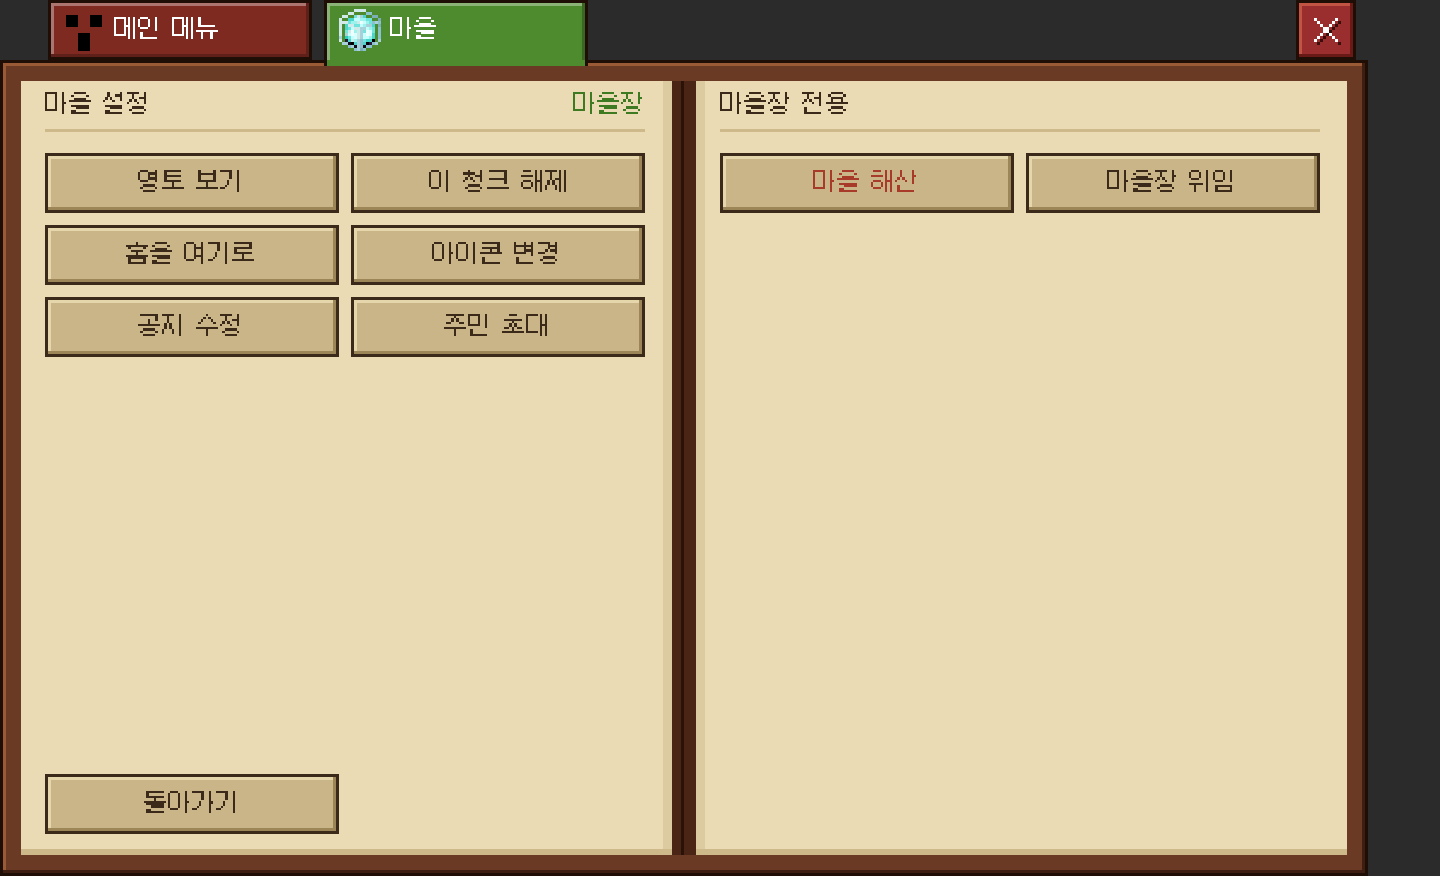
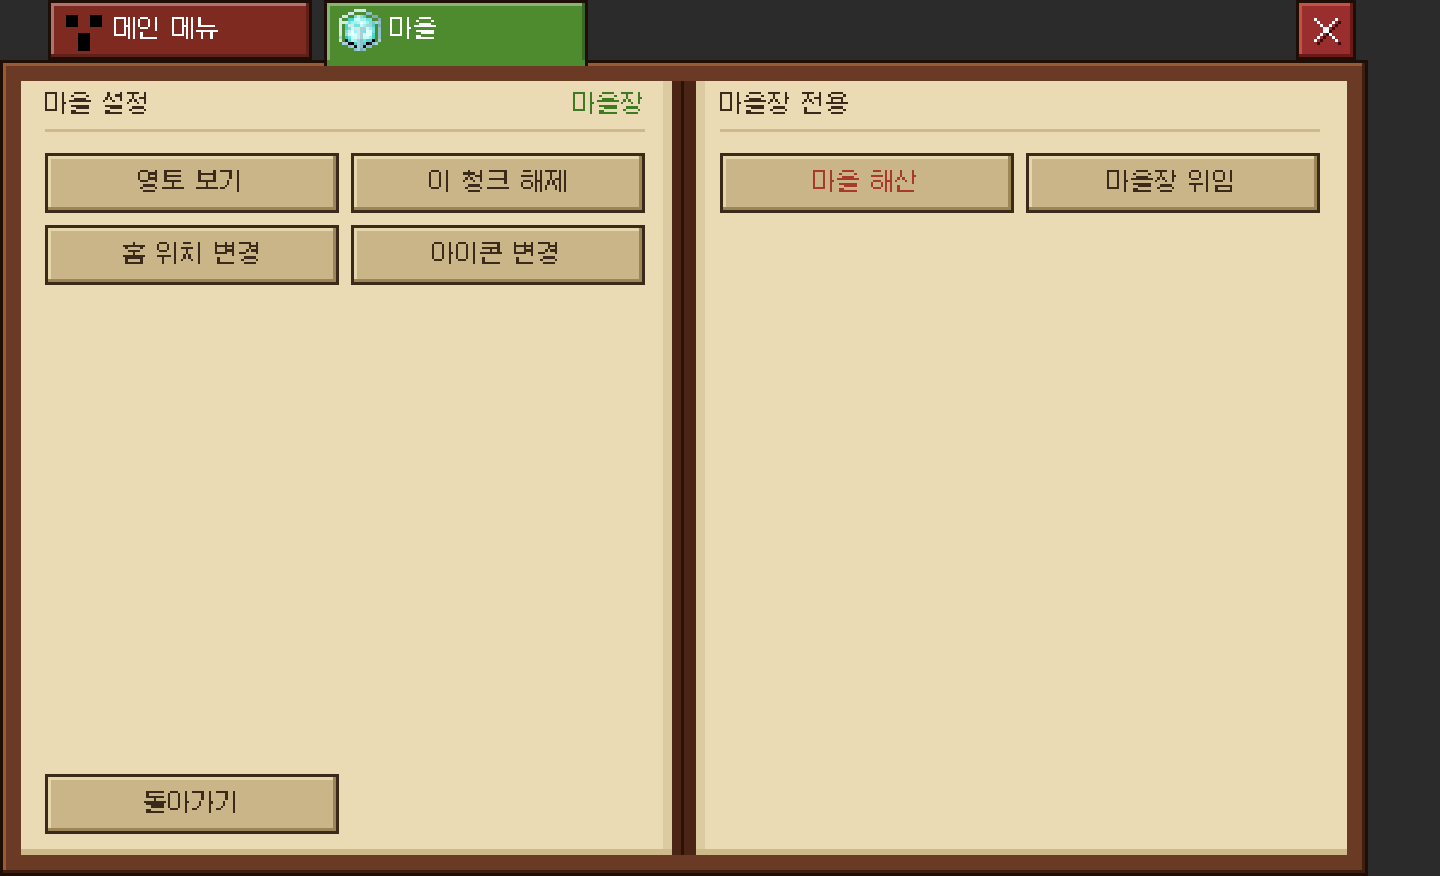
마을 설정 정리: 공지 수정·주민 초대 버튼 제거, 홈 위치 변경으로 이름 변경

Changed region(s): [[0.0312, 0.339, 0.4688, 0.4315], [0.0938, 0.2774, 0.1875, 0.3082]]

diff --git a/src/main/java/org/crebs/coreui/menu/village/VillageMenu.java b/src/main/java/org/crebs/coreui/menu/village/VillageMenu.java
@@ -560,13 +560,11 @@ public final class VillageMenu {
         if (state.asks(UNCLAIM)) c.button("paper", 98, "정말 해제", b, 51, RED, act::unclaimChunk, "지금 서 있는 청크를 영토에서 빼요 · 환불 없음");
         else c.button("paper", 98, "이 청크 해제", b, 51, INK, p -> act.go(p, State.SETTINGS.asking(UNCLAIM)),
                 "지금 서 있는 청크를 영토에서 빼요 · 환불 없음");
-        if (owner) c.button("paper", 98, "홈을 여기로", a, 75, INK, act::setHome, "지금 위치를 마을 홈으로 · 우리 영토 안에서만");
-        else c.button("off", 98, "홈을 여기로", a, 75, DIM, null, "마을장만 바꿀 수 있어요");
+        if (owner) c.button("paper", 98, "홈 위치 변경", a, 75, INK, act::setHome, "지금 위치를 마을 홈으로 · 우리 영토 안에서만");
+        else c.button("off", 98, "홈 위치 변경", a, 75, DIM, null, "마을장만 바꿀 수 있어요");
         if (owner) c.button("paper", 98, "아이콘 변경", b, 75, INK, p -> act.go(p, State.icon(v.icon())));
         else c.button("off", 98, "아이콘 변경", b, 75, DIM, null, "마을장만 바꿀 수 있어요");
-        c.button("paper", 98, "공지 수정", a, 99, INK, p -> act.editNotice(p, v));
-        if (v.members().size() < v.maxMembers()) c.button("paper", 98, "주민 초대", b, 99, INK, act::invite, "초대는 3일 동안 유효해요");
-        else c.button("off", 98, "주민 초대", b, 99, DIM, null, "마을 인원이 가득 찼어요");
+        // 공지 수정 is on the main page, 초대 on the member list.
         c.button("paper", 98, "돌아가기", LEFT, BUTTON_Y, INK, p -> act.go(p, State.MAIN));
 
         // Right page: 마을장 only.

diff --git a/docs/village-prototype.md b/docs/village-prototype.md
@@ -42,7 +42,7 @@
   - 오른쪽: 고른 주민의 역할·가입일·최근 접속(이 서버에 있으면 "접속 중")과 소개글.
     - 본인: `소개 수정`(6줄·200자), `마을 탈퇴`(한 번 더 눌러야 실행). 마을장은 탈퇴 불가 — `/마을 위임`·`/마을 해산` 안내.
     - 마을장 → 다른 주민: `관리자 지정`/`해제`, `추방`(한 번 더). 관리자 → 주민: `추방`.
-- **마을 설정** (관리자 이상, 메인의 `마을 설정`): 왼쪽 `영토 보기` · `이 청크 해제` · `홈을 여기로`(마을장) · `아이콘 변경`(마을장) · `공지 수정` · `주민 초대`, 오른쪽 마을장 전용 `마을 해산` · `마을장 위임`(주민 목록으로). 주민에게는 메인에 `영토 보기`가 있습니다.
+- **마을 설정** (관리자 이상, 메인의 `마을 설정`): 왼쪽 `영토 보기` · `이 청크 해제` · `홈 위치 변경`(마을장) · `아이콘 변경`(마을장). 공지 수정은 메인 공지 쪽, 초대는 주민 목록에 있습니다, 오른쪽 마을장 전용 `마을 해산` · `마을장 위임`(주민 목록으로). 주민에게는 메인에 `영토 보기`가 있습니다.
 - **마을 아이콘 고르기**: 33개 아이콘(5×4, 32px), 미리보기, `취소` / `적용`(마을장).
 
 ## 글리프
